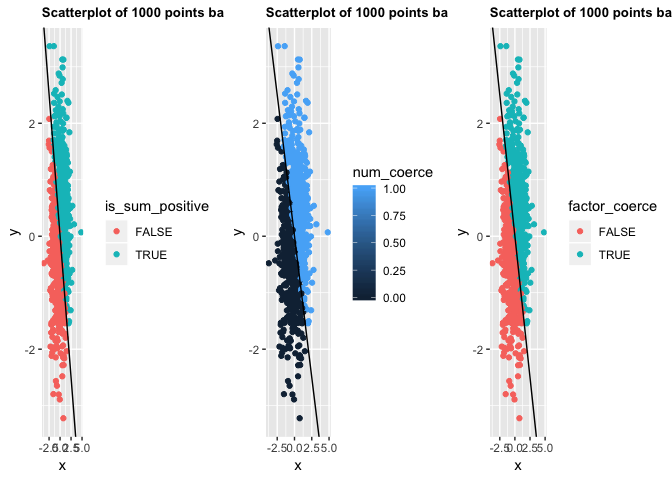
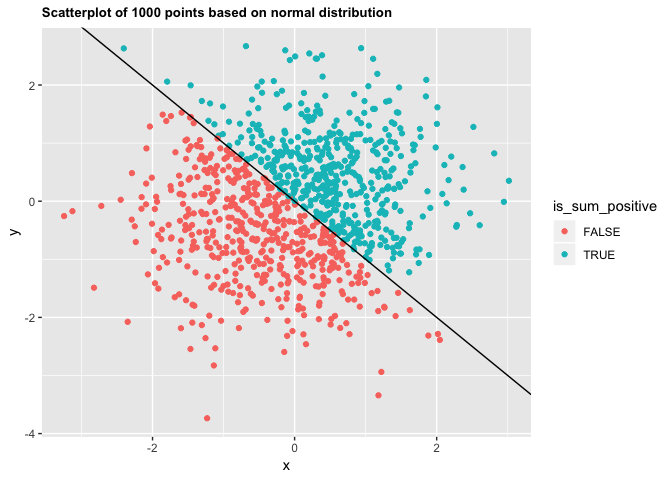
close to done

diff --git a/p8105_hw1_zdz2101.md b/p8105_hw1_zdz2101.md
@@ -22,16 +22,16 @@ print(problem1_df)
     ## # A tibble: 10 x 4
     ##    numeric_vec logical_vec char_vec factor_vec
     ##          <dbl> <lgl>       <chr>    <fct>     
-    ##  1       1.85  FALSE       My       small     
-    ##  2       0.814 FALSE       name     medium    
-    ##  3       4.21  TRUE        is       large     
-    ##  4       1.42  FALSE       Zelos    small     
-    ##  5       2.88  TRUE        Zhu      medium    
-    ##  6       3.67  TRUE        and      large     
-    ##  7       0.833 FALSE       I        small     
-    ##  8       0.278 FALSE       like     medium    
-    ##  9       4.07  TRUE        to       large     
-    ## 10       1.19  FALSE       eat      x-large
+    ##  1        1.67 FALSE       My       small     
+    ##  2        3.94 TRUE        name     medium    
+    ##  3        3.87 TRUE        is       large     
+    ##  4        4.42 TRUE        Zelos    small     
+    ##  5        4.17 TRUE        Zhu      medium    
+    ##  6        3.14 TRUE        and      large     
+    ##  7        3.34 TRUE        I        small     
+    ##  8        2.54 TRUE        like     medium    
+    ##  9        4.96 TRUE        to       large     
+    ## 10        1.89 FALSE       eat      x-large
 
 ``` r
 #means <- apply(problem1_df, 2, mean) --- doesn't work
@@ -53,9 +53,9 @@ means_prob1 <- c(mean(problem1_df$numeric_vec),
 means_prob1
 ```
 
-    ## [1] 2.122697 0.400000       NA       NA
+    ## [1] 3.393229 0.800000       NA       NA
 
-The mean() function successfully worked for the numeric and logical vectors of the data frame while it produced NAs for the character and factor vectors. This makes sense: the mean of the first vector could be calculated since it is a numeric variable. It's exactly what we think it should be: the sum of the elements divided by the number of elements. As a result the mean is 2.12.
+The mean() function successfully worked for the numeric and logical vectors of the data frame while it produced NAs for the character and factor vectors. This makes sense: the mean of the first vector could be calculated since it is a numeric variable. It's exactly what we think it should be: the sum of the elements divided by the number of elements. As a result the mean is 3.39.
 
 Interestingly enough, the second vector in the data frame could also have a mean and that is because R seems to automatically consider FALSE into 0 and TRUE into 1. So, taking a "mean" of a logical allows us to see the proportion of TRUE cases, similarly if we were to take the sum we would see the total counts of TRUE's. As expected, a mean could not be taken from neither the character or factor varaibles and that is because character and factor variables cannot be used with traditional "mathematical" functions.
 
@@ -90,16 +90,16 @@ print(head(problem2_df))
 ```
 
     ## # A tibble: 6 x 5
-    ##           x       y is_sum_positive num_coerce factor_coerce
-    ##       <dbl>   <dbl> <lgl>                <dbl> <fct>        
-    ## 1  0.421     0.288  TRUE                     1 TRUE         
-    ## 2  0.550     0.117  TRUE                     1 TRUE         
-    ## 3  0.000980 -1.63   FALSE                    0 FALSE        
-    ## 4 -0.239     0.0784 FALSE                    0 FALSE        
-    ## 5  0.336    -1.08   FALSE                    0 FALSE        
-    ## 6  0.899     0.204  TRUE                     1 TRUE
+    ##        x       y is_sum_positive num_coerce factor_coerce
+    ##    <dbl>   <dbl> <lgl>                <dbl> <fct>        
+    ## 1 -1.38  -0.798  FALSE                    0 FALSE        
+    ## 2  2.38   0.199  TRUE                     1 TRUE         
+    ## 3  0.130  0.749  TRUE                     1 TRUE         
+    ## 4  0.163  0.0996 TRUE                     1 TRUE         
+    ## 5 -0.493 -1.08   FALSE                    0 FALSE        
+    ## 6 -0.600  0.998  TRUE                     1 TRUE
 
-The size of the dataset is 1000 rows and 5 columns. The mean of x is 0.01. The median of x is 0.01. The proportion of cases for which the logical vector is TRUE is 0.51.
+The size of the dataset is 1000 rows and 5 columns. The mean of x is 0.02. The median of x is 0.09. The proportion of cases for which the logical vector is TRUE is 0.5.
 
 ``` r
 hw1plot_1 <- (ggplot(problem2_df, aes(x=x, y=y))
@@ -120,20 +120,30 @@ hw1plot_3 <- (ggplot(problem2_df, aes(x=x, y=y))
             + geom_abline(intercept = 0, slope = -1)
             + theme(plot.title = element_text(size = 10, face = "bold")))
 
-library(gridExtra)
-```
-
-    ## 
-    ## Attaching package: 'gridExtra'
-
-    ## The following object is masked from 'package:dplyr':
-    ## 
-    ##     combine
-
-``` r
-grid.arrange(hw1plot_1, hw1plot_2, hw1plot_3, nrow=1)
+hw1plot_1
 ```
 
 ![](p8105_hw1_zdz2101_files/figure-markdown_github/Prob2%20graphs-1.png)
 
-The color arrangement seems to be the exact same for the logical and factor variables, it separates each TRUE/FALSE into a discrete value and assigns it a particular color (in this case a light red and cyan). My guess on why this is, is that similar to how mathematical functions automaticcaly register logicals as 0/1's , in this setting it automatically changes it to factors of 2 levels: TRUE/FALSE.
+``` r
+hw1plot_2
+```
+
+![](p8105_hw1_zdz2101_files/figure-markdown_github/Prob2%20graphs-2.png)
+
+``` r
+hw1plot_3
+```
+
+![](p8105_hw1_zdz2101_files/figure-markdown_github/Prob2%20graphs-3.png)
+
+``` r
+#library(gridExtra) --- for my viewing pleasure when I was working on this so I don't have to scroll through in viewer
+#grid.arrange(hw1plot_1, hw1plot_2, hw1plot_3, nrow=1)
+```
+
+The color arrangement seems to be the exact same for the logical and factor variables, each point has a distinct color allocated based on the discrete values TRUE and FALSE (in this case a light red and cyan).
+
+MY hypothesis/guess on why this is, is that similar to how R automatically register logicals as 0/1's for mathematical functions, that in this setting, ggplot2 is written such that when logicals enter an aes, it automatically considers it a factor of 2 levels: TRUE/FALSE which have correspoding numbers to them, in this case 1 and 2. This would then allow R to have an index to pull certain "colors" from some sort of color vector. Otherwise with FALSE being 0, it would be difficult to use that as an index since R objects start indexing at 1. (Just my guess)
+
+In regards to the second plot where we have the blue and black dots, it seems in this case our color is based on some sort of gradient, the range of which is defined as 0 to 1. In our case we only have exactly 0's and 1's because we coerced it from logical to numeric. As a result we have a concentration from each of the extremes of the gradient. Say if we plugged in x as our color we would see this entire black(low)-blue(high) gradient generated going left to right. The same could be said for if we plugged in y instead, but we would generate that gradient from bottom to top.
